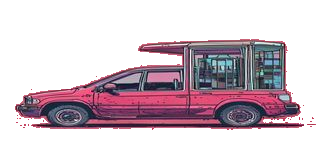
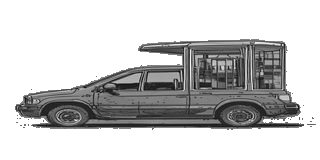
feat(art): grayscale-after-key step kills the magenta ground cast
Serge's technical pass: the magenta key cut perfectly (binary alpha,
moto tube frame intact) but the saturated ground bled a crimson cast
into the monochrome interiors (car meanSat 0.41). gen-vehicle-sprites
now desaturates (Rec.601) every keyed pixel after the cutout, with a
--reprocess mode applied to the committed PNGs (pinned seeds make a
paid regen redundant). check-sprite-style bw mode gains the matching
meanSat<=0.10 ceiling — diffuse casts and single-hue floods are now
both mechanically caught. All gates green (meanSat 0.000 x3).

Claude-Session: https://claude.ai/code/session_01Th1oGwcs7xMNT7TxHVf4i2

Changed region(s): [[0.0312, 0.2188, 1.0, 0.8125], [0.625, 0.5, 0.6562, 0.5312]]

diff --git a/docs/agent-handoffs.md b/docs/agent-handoffs.md
@@ -392,6 +392,55 @@ Template:
 
 ---
 
+### story-decoupled-bw-vehicles — TECHNICAL PASS (Serge / game-graphist)
+
+- scope: metered the first decoupled B&W batch (commit 42095d1, magenta chroma-key ground per
+  my [S1]). Mechanical `check-sprite-style.mjs` PASS 3/3 (bw mode) — but a FALSE pass on the
+  car, see gate gap.
+- **[S1] magenta-key VALIDATED (the silhouette half):** alpha hard-binary on all three
+  (0.00% semi), boundary ring ~0% magenta (truck 0 / moto 0 / car 12%), black ink linework
+  preserved, interior whites survived, and — my key concern — **the moto tube frame survived
+  intact** (black-on-black ground would have flood-eaten it; on magenta it keys clean). No
+  eaten contours. The eaten-silhouette risk of the decouple is solved.
+- **NEW defect — magenta COLOR CAST bleeds into the B&W render (deep interior, not fringe):**
+  strong-colored (S>0.40) share = truck 22% / moto 27% (+42% faint) / **car 54% (meanSat
+  0.41 — body-wide pink)**; hue is a consistent crimson/magenta 330-360° across all three
+  seeds → it is GROUND SPILL, not design. Violates §1 "fully black and white". The car is the
+  low-contrast render that soaked up the most. This is a GENERATION-pipeline contamination:
+  the pipeline keys the ground but never forces the sprite back to B&W.
+- **retouch decision: NONE.** The cast is a body-wide tonal problem, not edge hygiene — my
+  remit (fringe/halo/alpha/quantize) and my documented spec (stray + boundary-clamp + alpha)
+  do not cover a global desaturation, which would also be a tonal alteration and would leave
+  the low-contrast car muddy. Strays are trivial (truck 4px / car 46px / moto 37px). Cleaning
+  them now is throwaway: the set must be re-processed at source to kill the cast, which
+  regenerates every pixel. Alpha already hard-binary → nothing to harden.
+- **SOURCE FIX (dev-tooling-assets + Maud, not retouch):** add a **grayscale / force-B&W step
+  AFTER the magenta key** in `gen-vehicle-sprites.mjs`. Key on the colour image first (clean
+  silhouette, proven here), THEN desaturate the keyed sprite → neutralises the ground spill in
+  the body while keeping the clean cut. This is the missing companion to my [S1] ground change
+  (flagged then as a coordinated tooling change). Rim bake (ADR 0006) is unaffected either way
+  (it reads alpha, not colour), but the visible sprite must be true B&W.
+- **GATE GAP (flag for tooling):** the bw-mode flood-kill counts only high-sat AND high-val
+  pixels in ONE hue band (≤18%). The car reads **12.39% magenta → PASS** while being 54%
+  strong-coloured to the eye, because the pink cast is medium-value. The gate green-lights a
+  pink sprite. Recommend a mean-saturation ceiling or a medium-val saturated-pixel count so a
+  body-wide cast trips it.
+- silhouette reads at game size: **[S5] truck improved** — boxy tall-cargo roofline (43% canvas
+  height vs batch-3's 38% low van; front cab/hood steps down, cargo box tall), acceptable, final
+  taste to Nico. **[S7] car** — got the tall rear phone-booth glasshouse but overall reads long
+  wagon/estate (aspect 3.3), not the short tall one-box city car of §5; silhouette taste concern
+  for Nico on top of the cast. **moto** coherent skeletal moped + top-box, frame intact.
+- verdict: **0/3 technically clean — but for a NEW, narrower reason (magenta cast) and the
+  decouple's core risk (eaten silhouette / colour flood) is now SOLVED.** One source step
+  (grayscale-after-key) + a gate tightening away from a clean set; then a fringe/stray retouch
+  pass from me if needed. Per sprite: truck CLOSEST (cast mostly enclosed window crimson,
+  B&W-ish body) — likely clean after the source fix; moto coherent but pink-cast; car WORST
+  (severe body-wide cast + long-wagon silhouette + falsely gate-passed). Back to
+  dev-tooling-assets/Maud for the B&W step; Nico's asset gate owns the silhouette taste calls.
+  (Serge — game-graphist, technical pass)
+
+---
+
 ### story-sprite-prompt-workshop (follow-up 7) — PROMPT re-GATE (batch 3b)
 
 - verdict: **PASS — dispatch batch 3b on `claude/art-pipeline-graphist`.** Both
